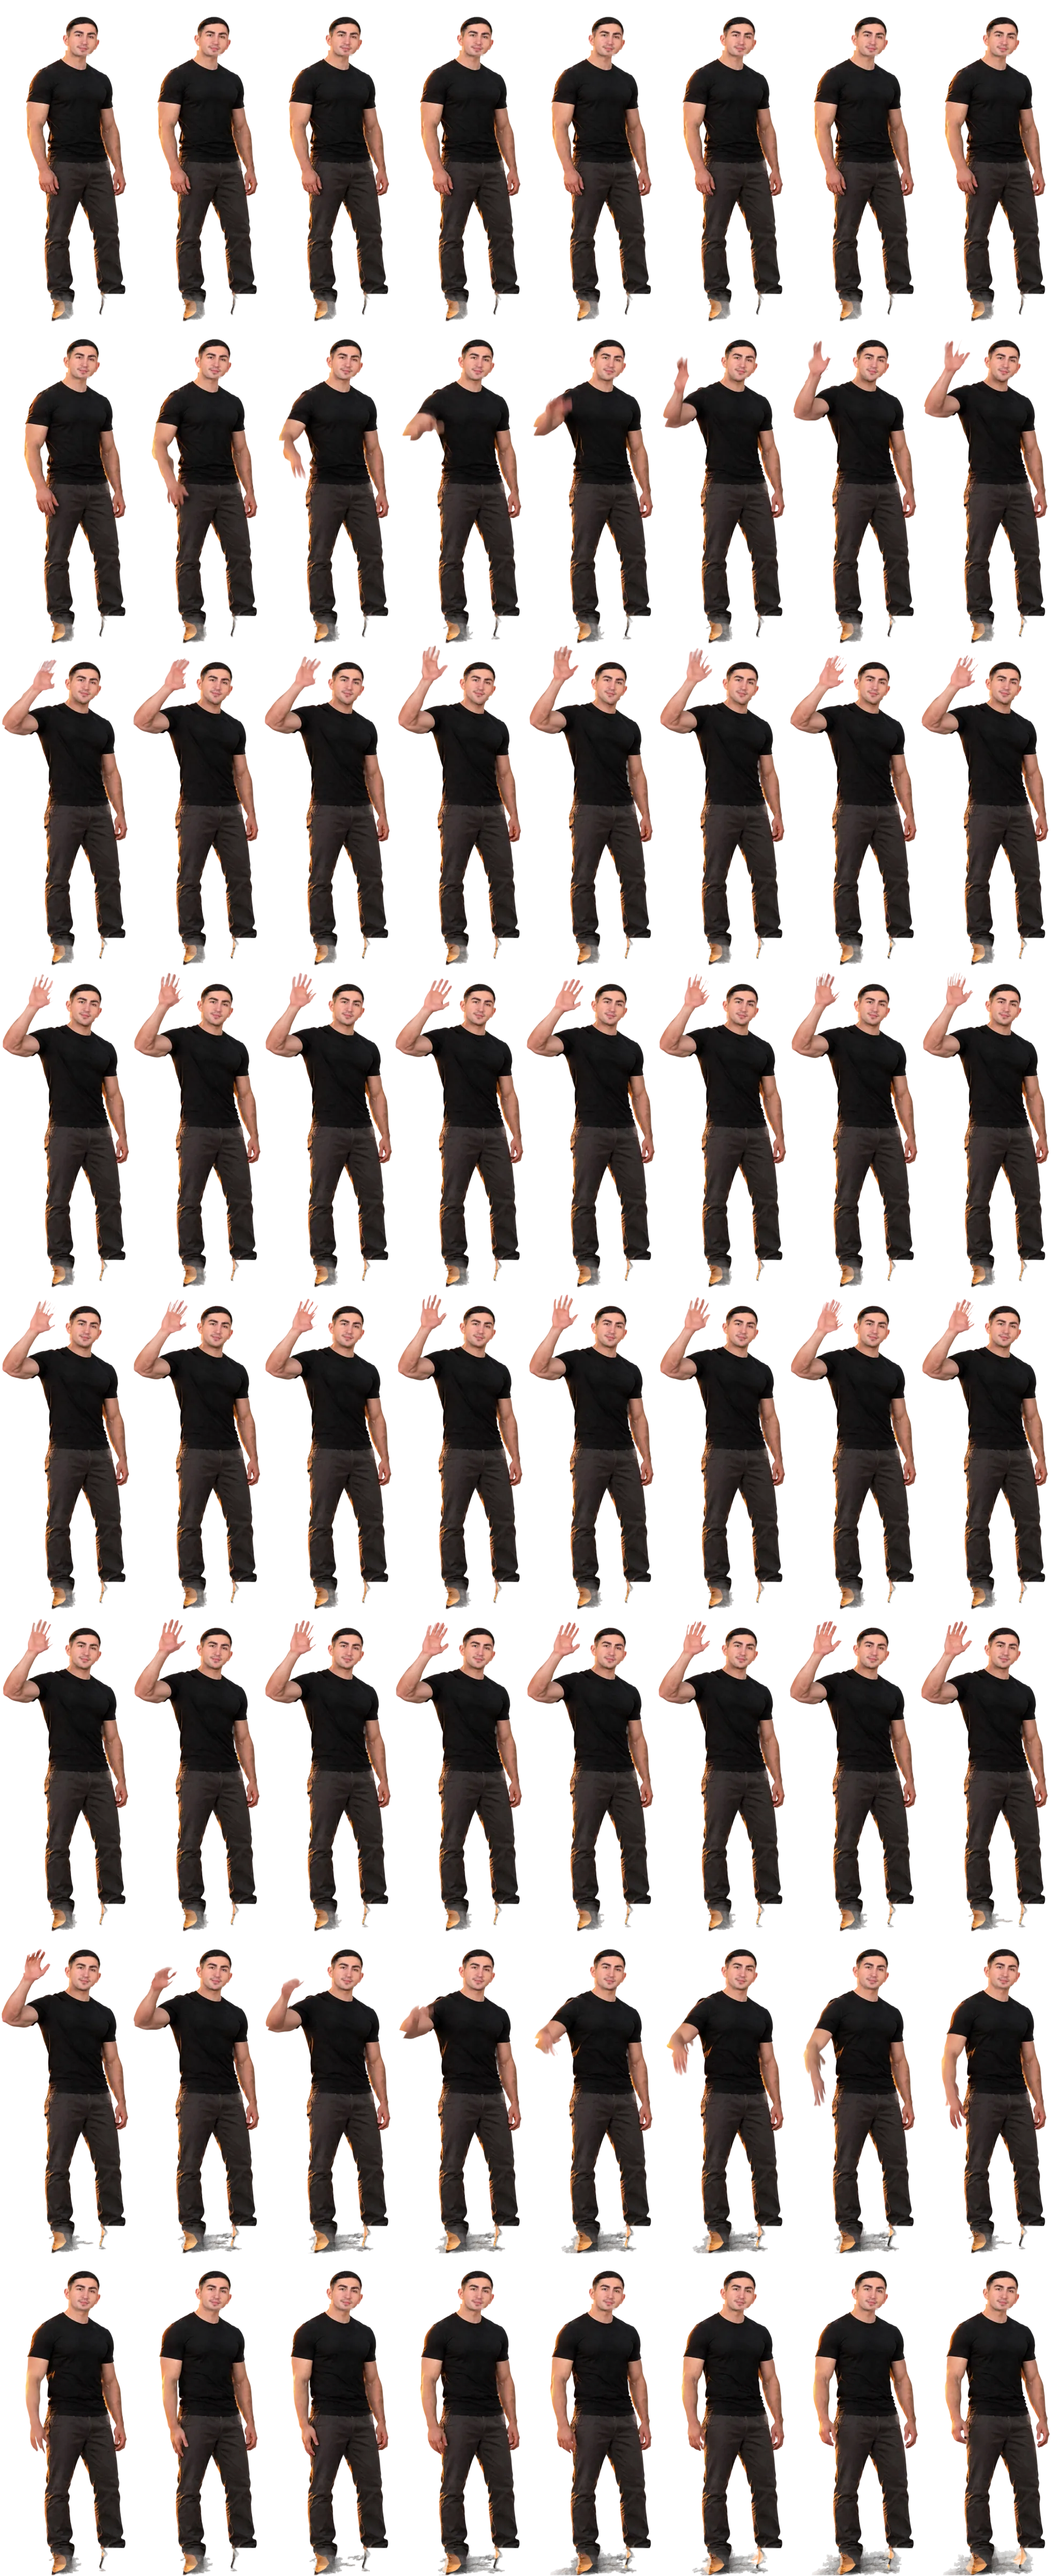
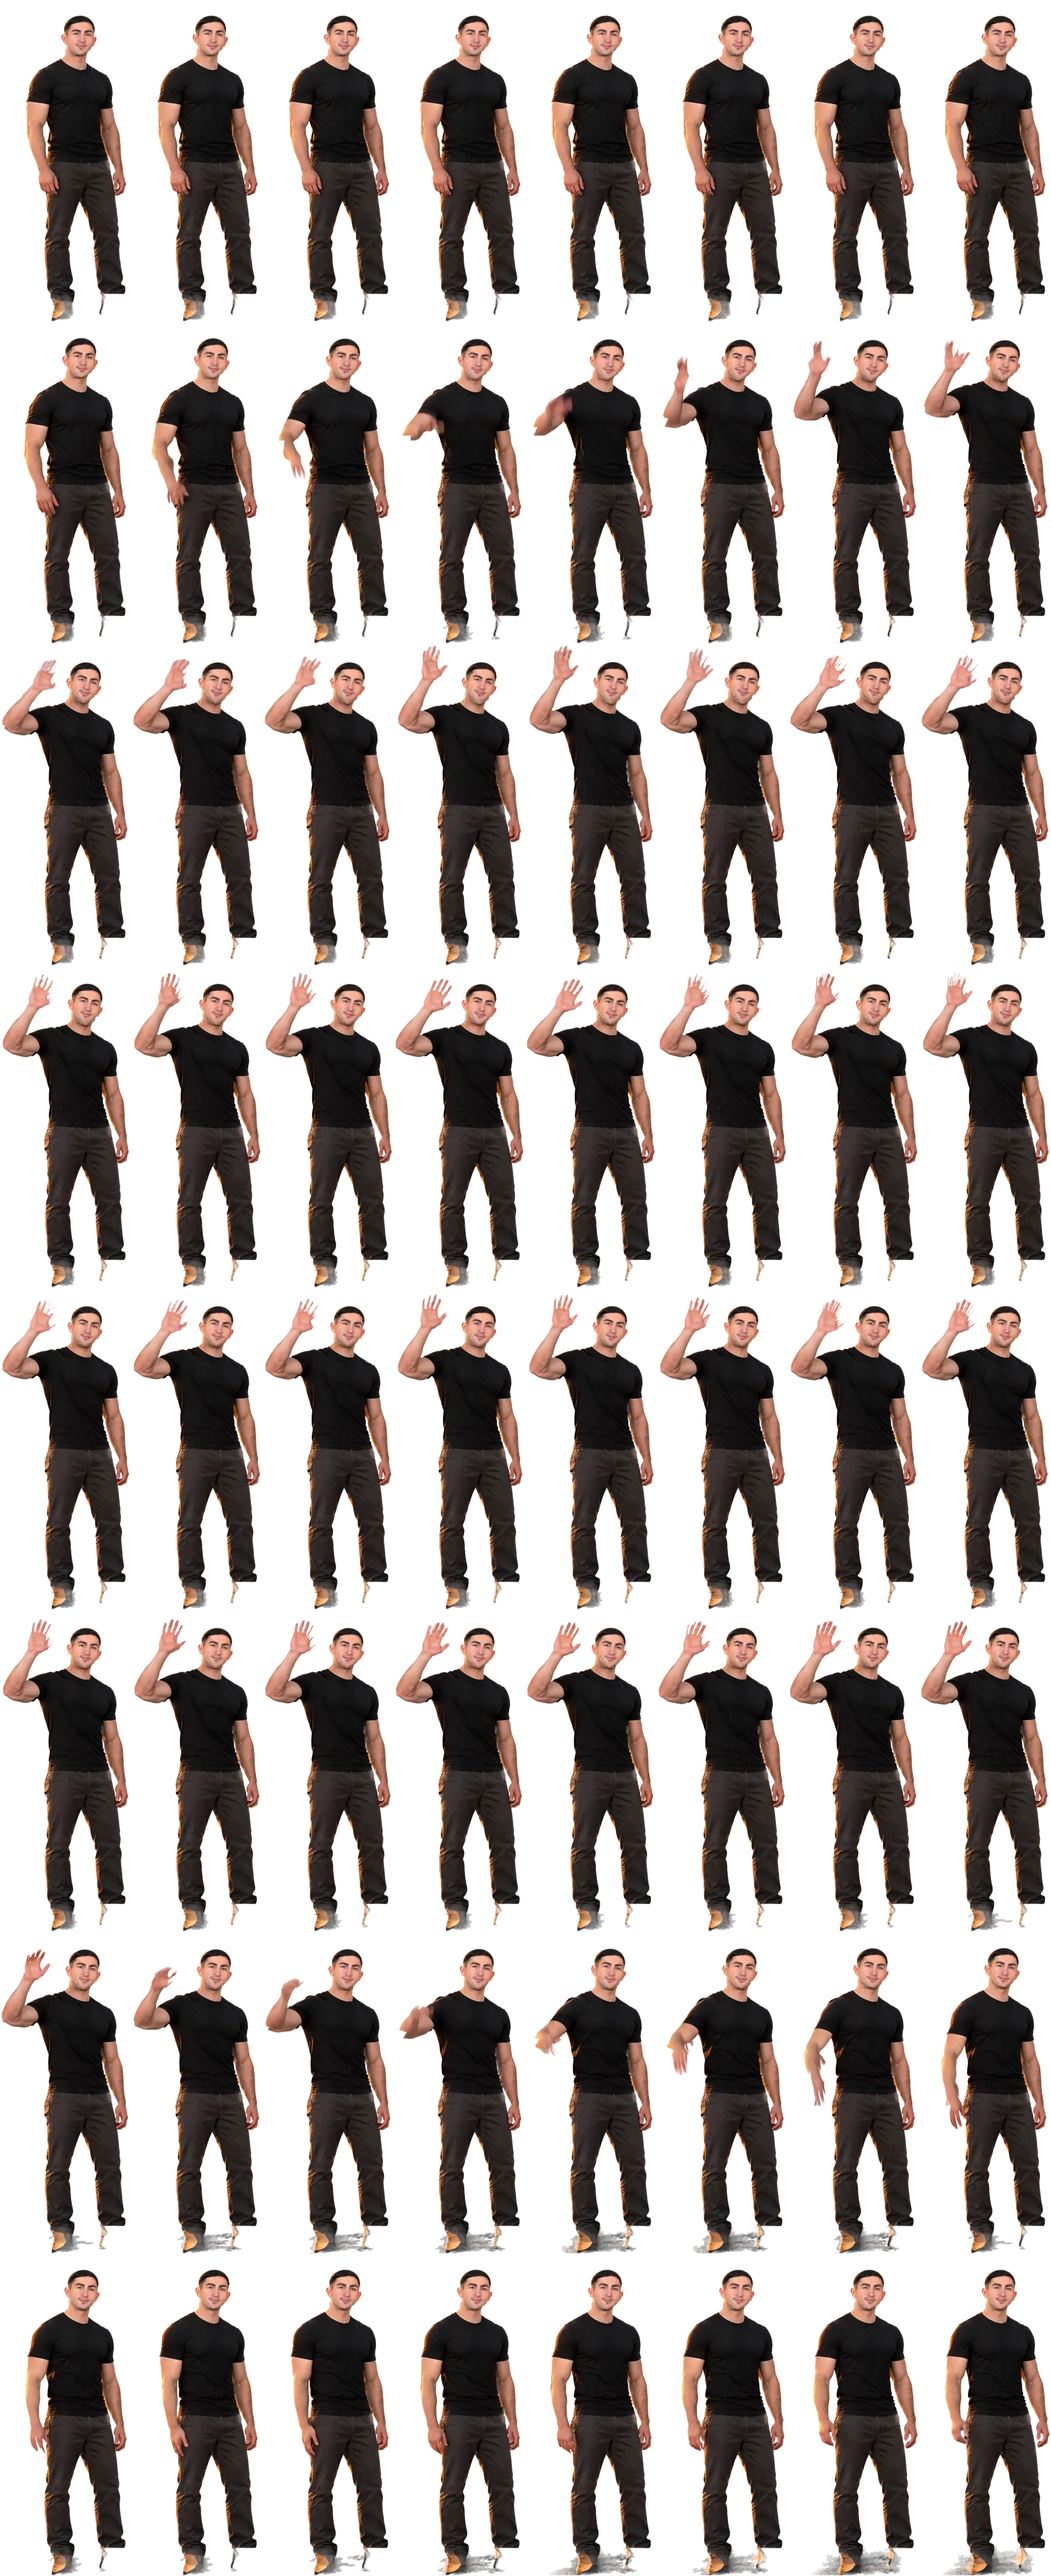
Titelbild: Kopf wieder natuerlich, nur leicht groesser und am Hals angesetzt

diff --git a/js/szene.js b/js/szene.js
@@ -522,12 +522,12 @@
      je Figur ein Tag- und ein Abendbild und für die Nacht die Bildfolge – der Hund hebt den Kopf und jault, Emre winkt
      („Tschüss“). Beides startet gemeinsam, sobald es Nacht ist und man weiterscrollt, und läuft dann in eigener Zeit ab
      (so sieht man es sicher, bevor endo Studio kommt); beim Hochscrollen läuft es rückwärts. */
-  var FIGUREN = { hund: { b: 318, h: 360, anzahl: 36, spalten: 6, fuss: 0.9921, oben: 0.0896, mitte: 0.4201, breite: 0.7716 }, emre: { b: 245, h: 600, anzahl: 64, spalten: 8, fuss: 0.9964, oben: 0.0525, mitte: 0.5794, breite: 0.7595 } };
+  var FIGUREN = { hund: { b: 318, h: 360, anzahl: 36, spalten: 6, fuss: 0.9921, oben: 0.0896, mitte: 0.4201, breite: 0.7716 }, emre: { b: 245, h: 600, anzahl: 64, spalten: 8, fuss: 0.9964, oben: 0.0489, mitte: 0.5794, breite: 0.7595 } };
   var fig = { phase: 0, ziel: 0, laeuft: false, t: 0 }, FIG_DAUER = 4.4, lichtGold = 0, lichtBlau = 0, lichtNacht = 0;
   function figurLaden(name, folge) {
     var f = FIGUREN[name], b = new Image(); b.decoding = 'async';
     b.onload = function () { f[folge ? 'folge' : 'bild'] = b; f.zuletzt = ''; figurenZeichnen(); };
-    b.src = 'bilder/hero/figuren/' + name + (folge ? '-folge' : '') + '.webp?v=7';
+    b.src = 'bilder/hero/figuren/' + name + (folge ? '-folge' : '') + '.webp?v=8';
   }
   Object.keys(FIGUREN).forEach(function (k) { FIGUREN[k].zuletzt = ''; figurLaden(k, false); });
   /* die Bildfolgen (groß) erst nach dem Laden der Seite */

diff --git a/index.html b/index.html
@@ -703,7 +703,7 @@ img { display: block; max-width: 100%; height: auto; }
   </nav>
 </footer>
 
-<script src="js/szene.js?v=27"></script>
+<script src="js/szene.js?v=28"></script>
 <script>
 /* Navigation beim Runterscrollen ausblenden, Inhalte einmal sanft einblenden */
 (function () {
